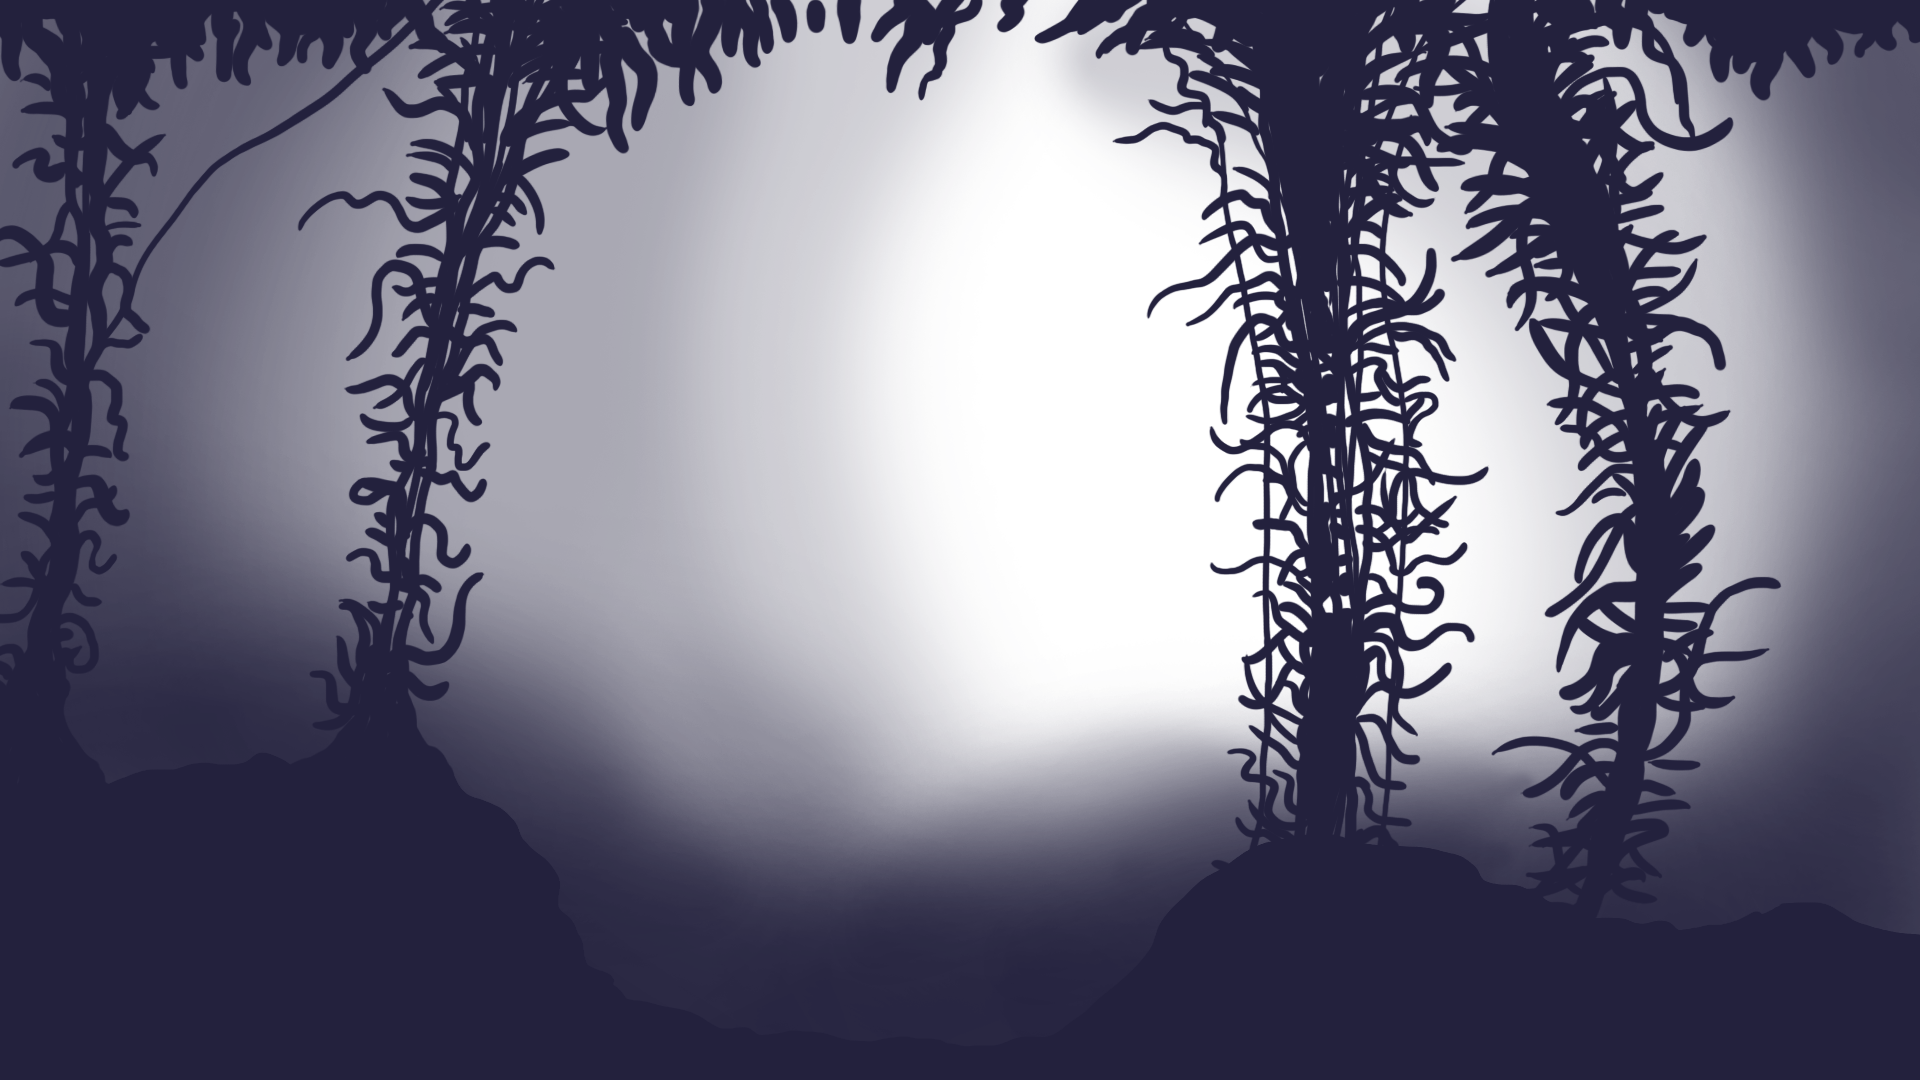
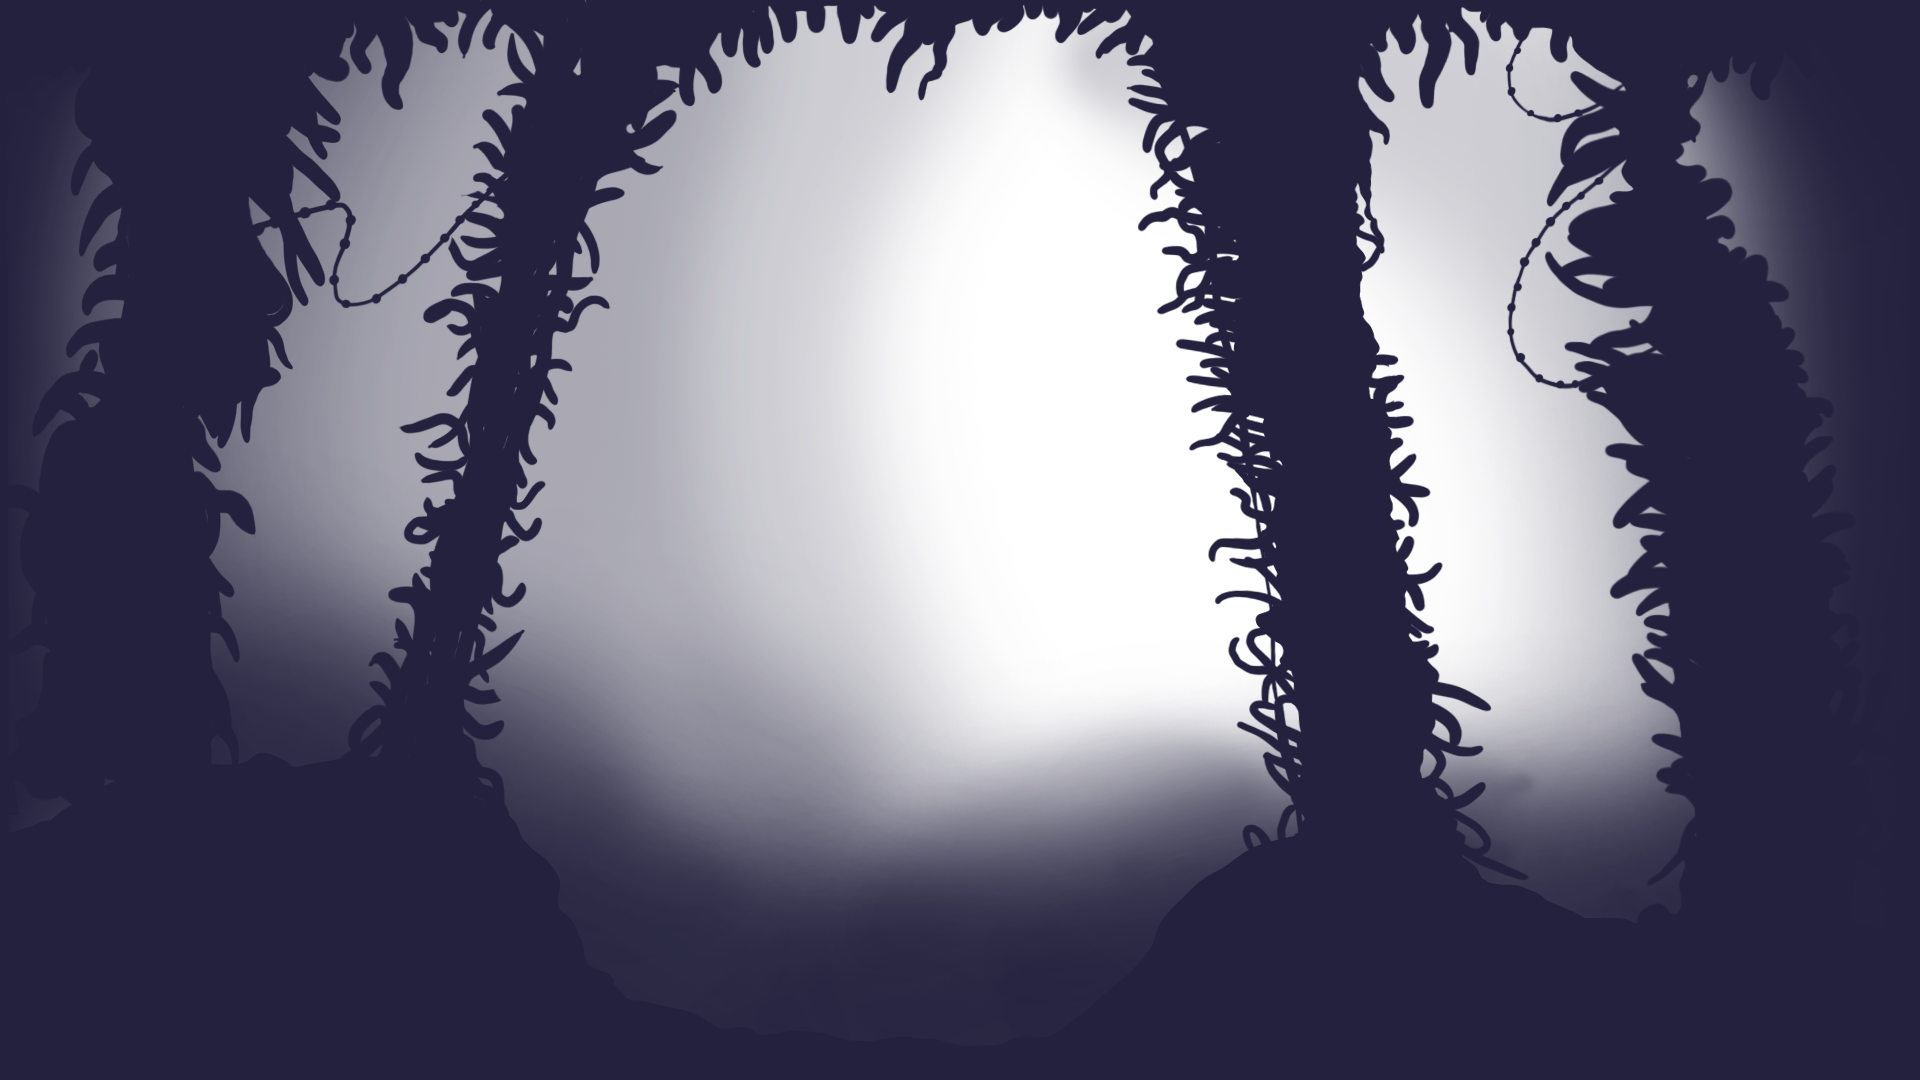
Update parallax background. Add background border.

diff --git a/js/scenes/LevelScene2.js b/js/scenes/LevelScene2.js
@@ -16,7 +16,7 @@ class LevelScene2 extends Phaser.Scene {
 	}
 
 	create() {
-		this.cameras.main.setBackgroundColor(0x294f8c);
+		this.cameras.main.setBackgroundColor(0xFF0000);
 
 		let size = 2 * 0.8 * Math.min(this.W, this.H);
 
@@ -26,15 +26,17 @@ class LevelScene2 extends Phaser.Scene {
 
 		this.bg = [];
 		//const images = ['bg_parallax_2', 'bg_parallax_3', 'bg_parallax_4', 'bg_parallax_5', 'bg_parallax_6', 'bg_parallax_7', 'bg_parallax_1'];
-		const images = ['bg_parallax_6', 'bg_parallax_5', 'bg_parallax_4', 'bg_parallax_3', 'bg_parallax_2', 'bg_parallax_1'];
+		const images = ['bg_parallax_7', 'bg_parallax_6', 'bg_parallax_5', 'bg_parallax_4', 'bg_parallax_3', 'bg_parallax_2', 'bg_parallax_1'];
 
 		for (let i = 0; i < images.length; i++) {
-			let scrollFac = 0.05 + 0.5 * Math.pow(i / images.length, 1.2); // Slow incline from 0 to 0.5
+			let scrollFac = 0.0 + 0.5 * Math.pow(i / images.length, 1.5); // Slow incline from 0 to 0.5
 			let bg = this.add.image(0, 0, images[i]);
 			bg.originalScale = 1.5 * Math.max(this.W / bg.width, this.H / bg.height);
 			bg.setScale(bg.originalScale);
-			let scrollX = (bg.displayWidth > this.W) ? Math.min(((bg.displayWidth - this.W) / 2) / (size / 2), scrollFac) : 0;
-			let scrollY = (bg.displayHeight > this.H) ? Math.min(((bg.displayHeight - this.H) / 2) / (size / 2), scrollFac) : 0;
+			let scrollX = scrollFac;//(bg.displayWidth > this.W) ? Math.min(((bg.displayWidth - this.W) / 2) / (size / 2), scrollFac) : 0;
+			let scrollY = scrollFac;//(bg.displayHeight > this.H) ? Math.min(((bg.displayHeight - this.H) / 2) / (size / 2), scrollFac) : 0;
+			scrollX = Math.max(scrollX, scrollY);
+			scrollY = scrollX;
 			bg.setPosition(
 				this.CX*(1-scrollX),
 				this.CY*(1-scrollY)
@@ -44,6 +46,21 @@ class LevelScene2 extends Phaser.Scene {
 			//this.bg.setAlpha(0.2);
 			//this.bg.setScale(0.2 + 0.8*i/10);
 			//this.fitToScreen(this.bg);
+		}
+
+		const top = this.bg[this.bg.length-1];
+		const thickness = 1000;
+		this.borders = [];
+		this.borders[0] = this.add.rectangle(top.x, top.y-top.displayHeight/2, top.displayWidth+thickness, thickness, 0x23213d);
+		this.borders[0].setOrigin(0.5, 1.0);
+		this.borders[1] = this.add.rectangle(top.x, top.y+top.displayHeight/2, top.displayWidth+thickness, thickness, 0x23213d);
+		this.borders[1].setOrigin(0.5, 0.0);
+		this.borders[2] = this.add.rectangle(top.x-top.displayWidth/2, top.y, thickness, top.displayHeight+thickness, 0x23213d);
+		this.borders[2].setOrigin(1.0, 0.5);
+		this.borders[3] = this.add.rectangle(top.x+top.displayWidth/2, top.y, thickness, top.displayHeight+thickness, 0x23213d);
+		this.borders[3].setOrigin(0.0, 0.5);
+		for (let i in this.borders) {
+			this.borders[i].setScrollFactor(top.scrollFactorX, top.scrollFactorY);
 		}
 
 
@@ -170,7 +187,7 @@ class LevelScene2 extends Phaser.Scene {
 
 		if (this.selectedNode && this.isDragging) {
 			var d = Phaser.Math.Distance.Between(this.selectedNode.x, this.selectedNode.y, this.cameras.main.scrollX+this.cameraCenter.x, this.cameras.main.scrollY+this.cameraCenter.y);
-			if (d > 4 * this.selectedNode.circle.width/2) {
+			if (d > 2 * this.selectedNode.circle.width/2) {
 				this.selectedNode.setSelected(false);
 				this.selectedNode = null;
 			}
@@ -235,6 +252,10 @@ class LevelScene2 extends Phaser.Scene {
 			bg.setScale(bg.originalScale / (bg.scrollFactorX + this.cameras.main.zoom - bg.scrollFactorX*this.cameras.main.zoom));
 			//this['bg'+i].tilePositionX = this.cameras.main.scrollX * (i/200);
 			//this['bg'+i].tilePositionY = this.cameras.main.scrollY * (i/200);
+		}
+		const top = this.bg[this.bg.length-1];
+		for (const border of this.borders) {
+			border.setScale(top.scaleX);
 		}
 		this.timeController.setScale(1 / this.cameras.main.zoom);
 		this.graph.setScale(1 / this.cameras.main.zoom);

diff --git a/js/scenes/PreloadScene.js b/js/scenes/PreloadScene.js
@@ -21,6 +21,7 @@ class PreloadScene extends Phaser.Scene {
 		this.load.image('bg_parallax_4', 'assets/images/background/parallax/4.png');
 		this.load.image('bg_parallax_5', 'assets/images/background/parallax/5.png');
 		this.load.image('bg_parallax_6', 'assets/images/background/parallax/6.png');
+		this.load.image('bg_parallax_7', 'assets/images/background/parallax/7.png');
 
 
 		/* Menu */
